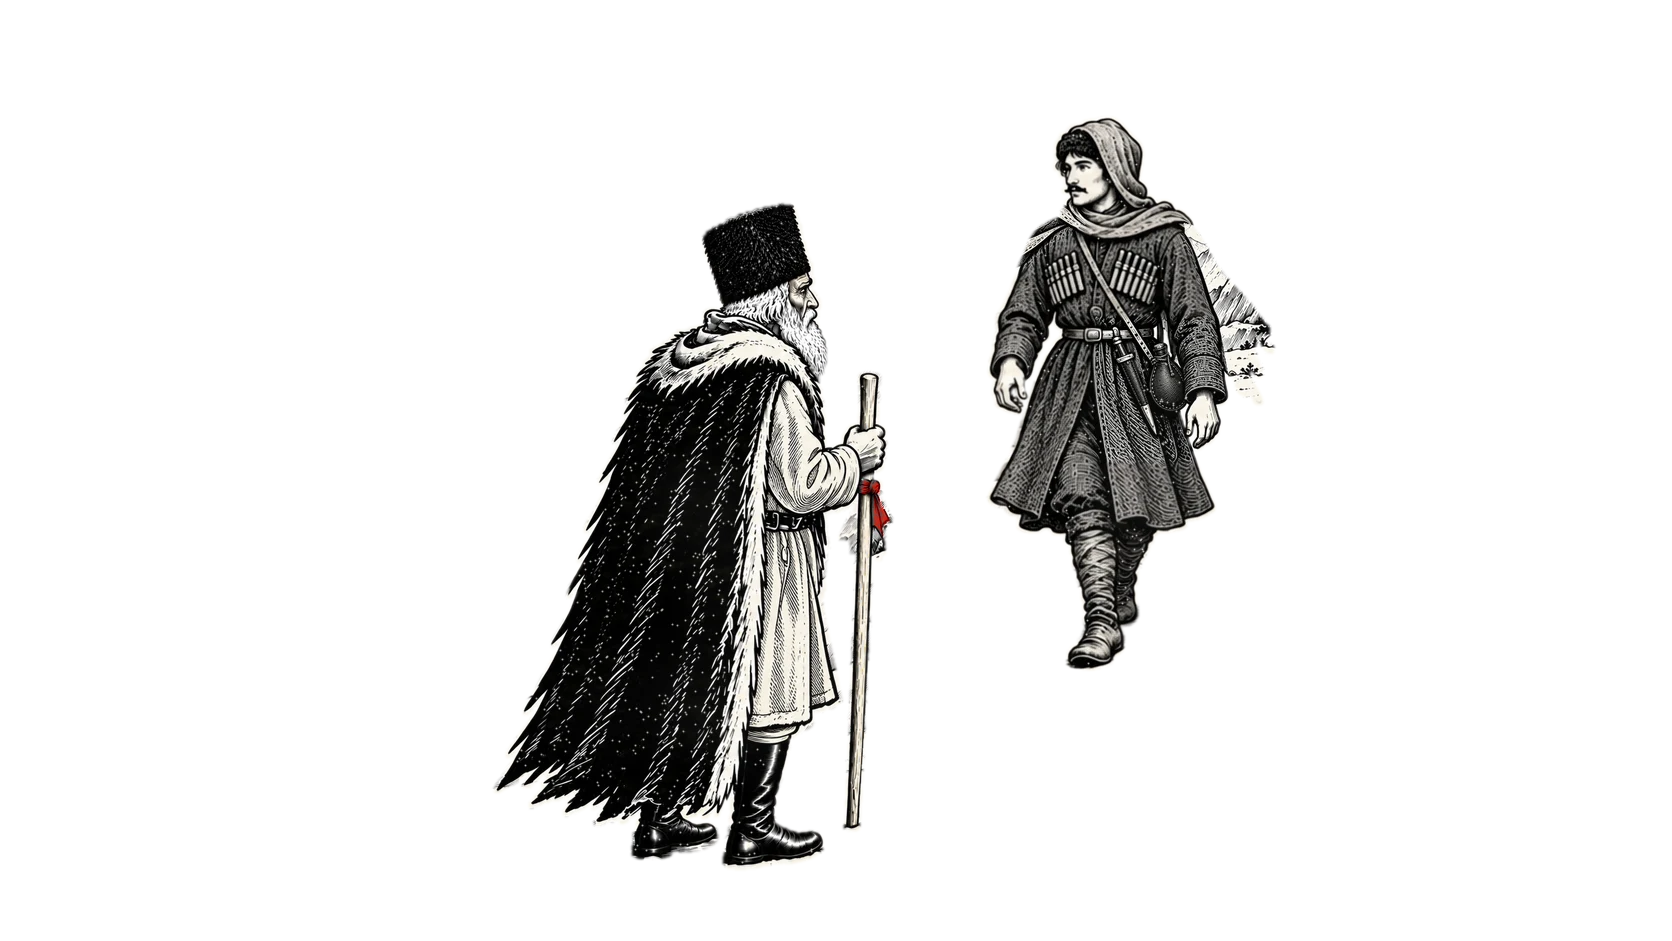
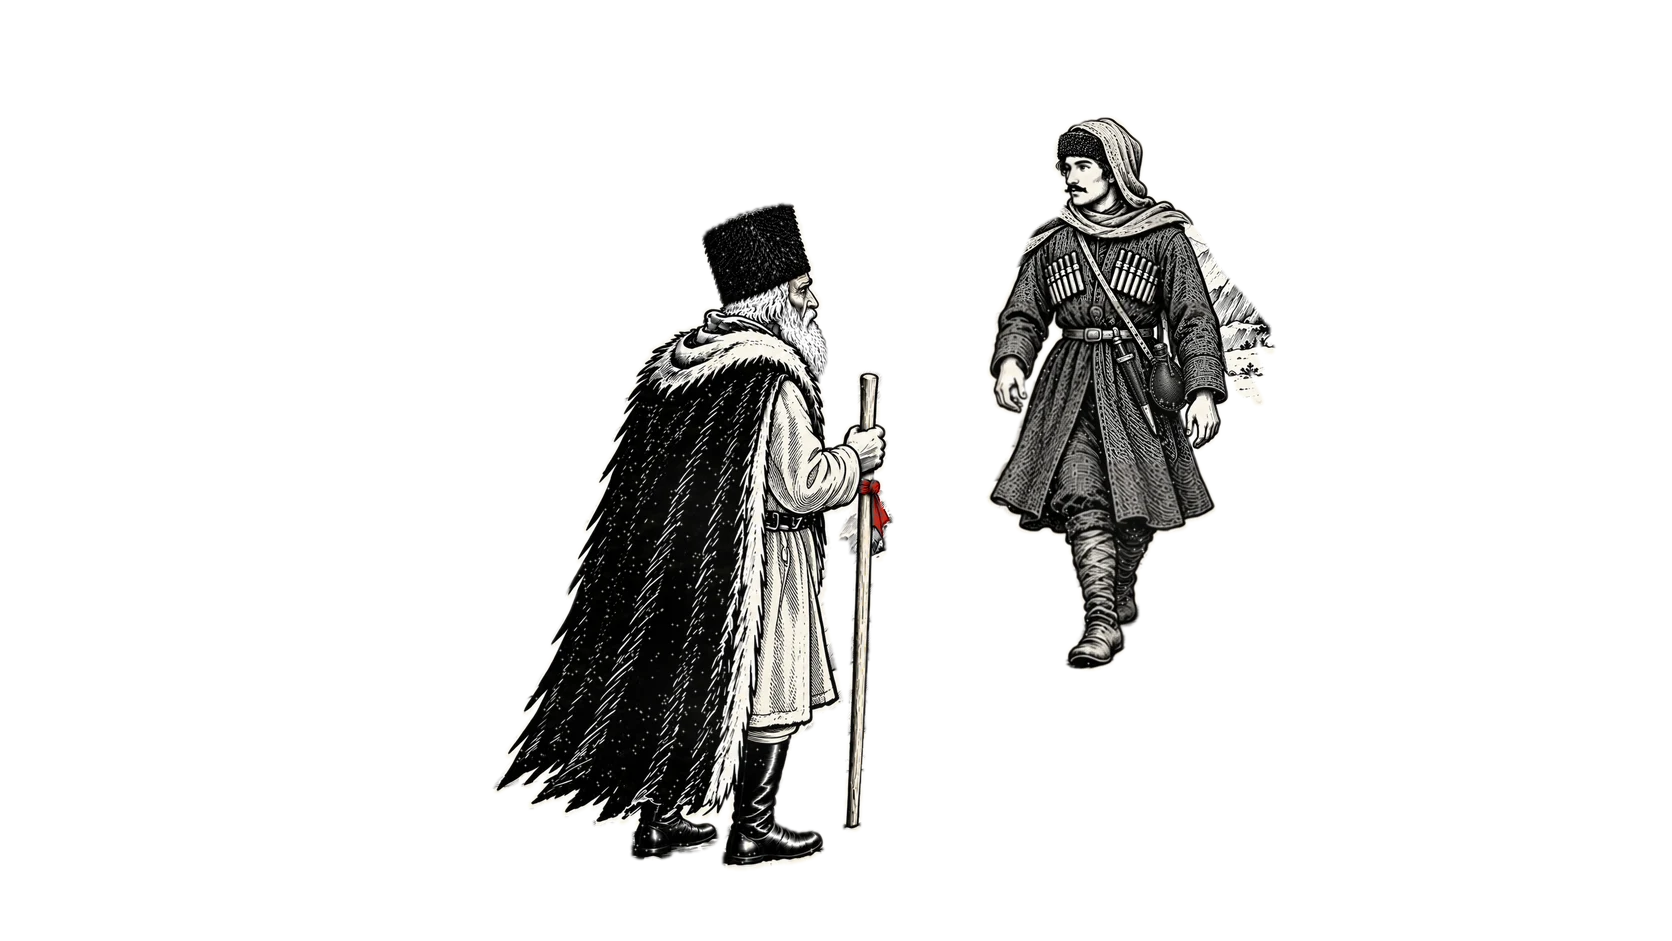
АЯРА: посох у источника, папаха, масштаб

Changed region(s): [[0.5909, 0.1233, 0.7153, 0.339]]

diff --git a/js/main.js b/js/main.js
@@ -45,7 +45,7 @@ window.GI_BRAND = {
   // над источником — облако, за ним небо с финалом. par — насколько быстрее горы едет при подъёме (ближе к камере)
   var SEAMS = ["seam-1", "seam-2", "seam-3", "seam-4"];
   var CLOUDS = FRAMES.slice(1).map(function (f, i) {
-    var h = 1.12 / 3 * (i === 1 ? 0.7 : 0.9);         // туман ниже — без долгой пустоты
+    var h = 1.12 / 3 * (i === 1 ? 0.7 : i === 2 ? 1.2 : 0.9);   // туман ниже; скала над питьём выше — закрывает и папаху снизу, и край кадра сверху
     return { y: f.y - GAP + h / 2 - (i === 2 ? 0.05 : 0.01), w: 1.12, h: h, src: SEAMS[i], par: i === 1 ? 0.12 : 0.05, flow: i === 3, dx: i === 3 ? -0.025 : 0 };   // водопад — под сток источника
   });
   CLOUDS.push({ y: FRAMES[FRAMES.length - 1].y + FH + 0.04, w: 1.24, h: 1.24 / 3 * 0.8, src: "cloud-2", par: 0.18, flip: true });   // вход в небо
@@ -56,7 +56,7 @@ window.GI_BRAND = {
     { f: 0, x: 0.56, y: 0.42, h: 0.46, k: 1 },
     { f: 1, x: 0.57, y: 0.45, h: 0.5, k: 2 },
     { f: 2, x: 0.56, y: 0.45, h: 0.47, k: 3 },
-    { f: 3, x: 0.55, y: 0.52, h: 0.5, k: 4 },
+    { f: 3, x: 0.55, y: 0.44, h: 0.54, k: 4 },   // голова уходящего в кадре уже на подходе
     { f: 4, x: 0.5, y: 0.5, h: FH, k: 5 },
     { sky: 1, k: 6 }
   ];

diff --git a/index.html b/index.html
@@ -63,8 +63,8 @@
       <p class="cap" data-key="1">Старик шёл к&nbsp;источнику.<br> Каждый шаг давался труднее прежнего.</p>
       <p class="cap" data-key="2">Навстречу спускался горец.<br> Он возвращался от&nbsp;источника.</p>
       <p class="cap cap--lg" data-key="3">Вода была ледяной.<br> Говорят, после неё легче идти.</p>
-      <p class="cap" data-key="4">Посох остался на&nbsp;камне.<br> Вниз он шёл налегке.</p>
-      <p class="cap cap--brand cap--r" data-key="5"><span data-brand>АЯРА</span>.<br> Из&nbsp;того самого источника.</p>
+      <p class="cap" data-key="4">Посох остался у&nbsp;источника.<br> Вниз он шёл налегке.</p>
+      <p class="cap cap--brand" data-key="5"><span data-brand>АЯРА</span>.<br> Из&nbsp;того самого источника.</p>
 
       <!-- врезки крупным планом, как в комиксе (нарисовал Кодекс): картинка, точка в центре рамки, увеличение -->
       <div class="inset" data-key="1" data-src="assets/inset-1.webp" data-at=".5,.5,1" aria-hidden="true"><i></i></div>

diff --git a/assets/assets.js b/assets/assets.js
@@ -2,4 +2,4 @@
    staffRest: [центр x, центр y, длина палки в долях ширины кадра, угол по часовой в градусах] для staff.webp
    (палка на картинке горизонтальная); staffBoil: есть panel-05-nostaff-b.webp; staffHand: [x, y] хват в руке старика; labelBox: [x, y, w, h] этикетка
    на bottle-packshot.webp; bottle6: [x низа, y низа, высота] бутылки на уступе сцены 6. */
-window.GI_ASSETS = {"boil": ["scene-01", "scene-02", "scene-03", "scene-04", "scene-05", "scene-06"], "staff": true, "staffBoil": true, "staffRest": [0.4375, 0.8121, 0.5225, 1.7], "staffHand": [0.719, 0.533], "labelBox": [0.3289, 0.6057, 0.3411, 0.1164], "bottle6": [0.33, 0.785, 0.33]};
+window.GI_ASSETS = {"boil": ["scene-01", "scene-02", "scene-03", "scene-04", "scene-05", "scene-06"], "staff": true, "staffBoil": true, "staffRest": [0.4375, 0.8121, 0.5225, 1.7], "staffHand": [0.719, 0.533], "labelBox": [0.3289, 0.6057, 0.3411, 0.1164], "bottle6": [0.33, 0.785, 0.22]};
